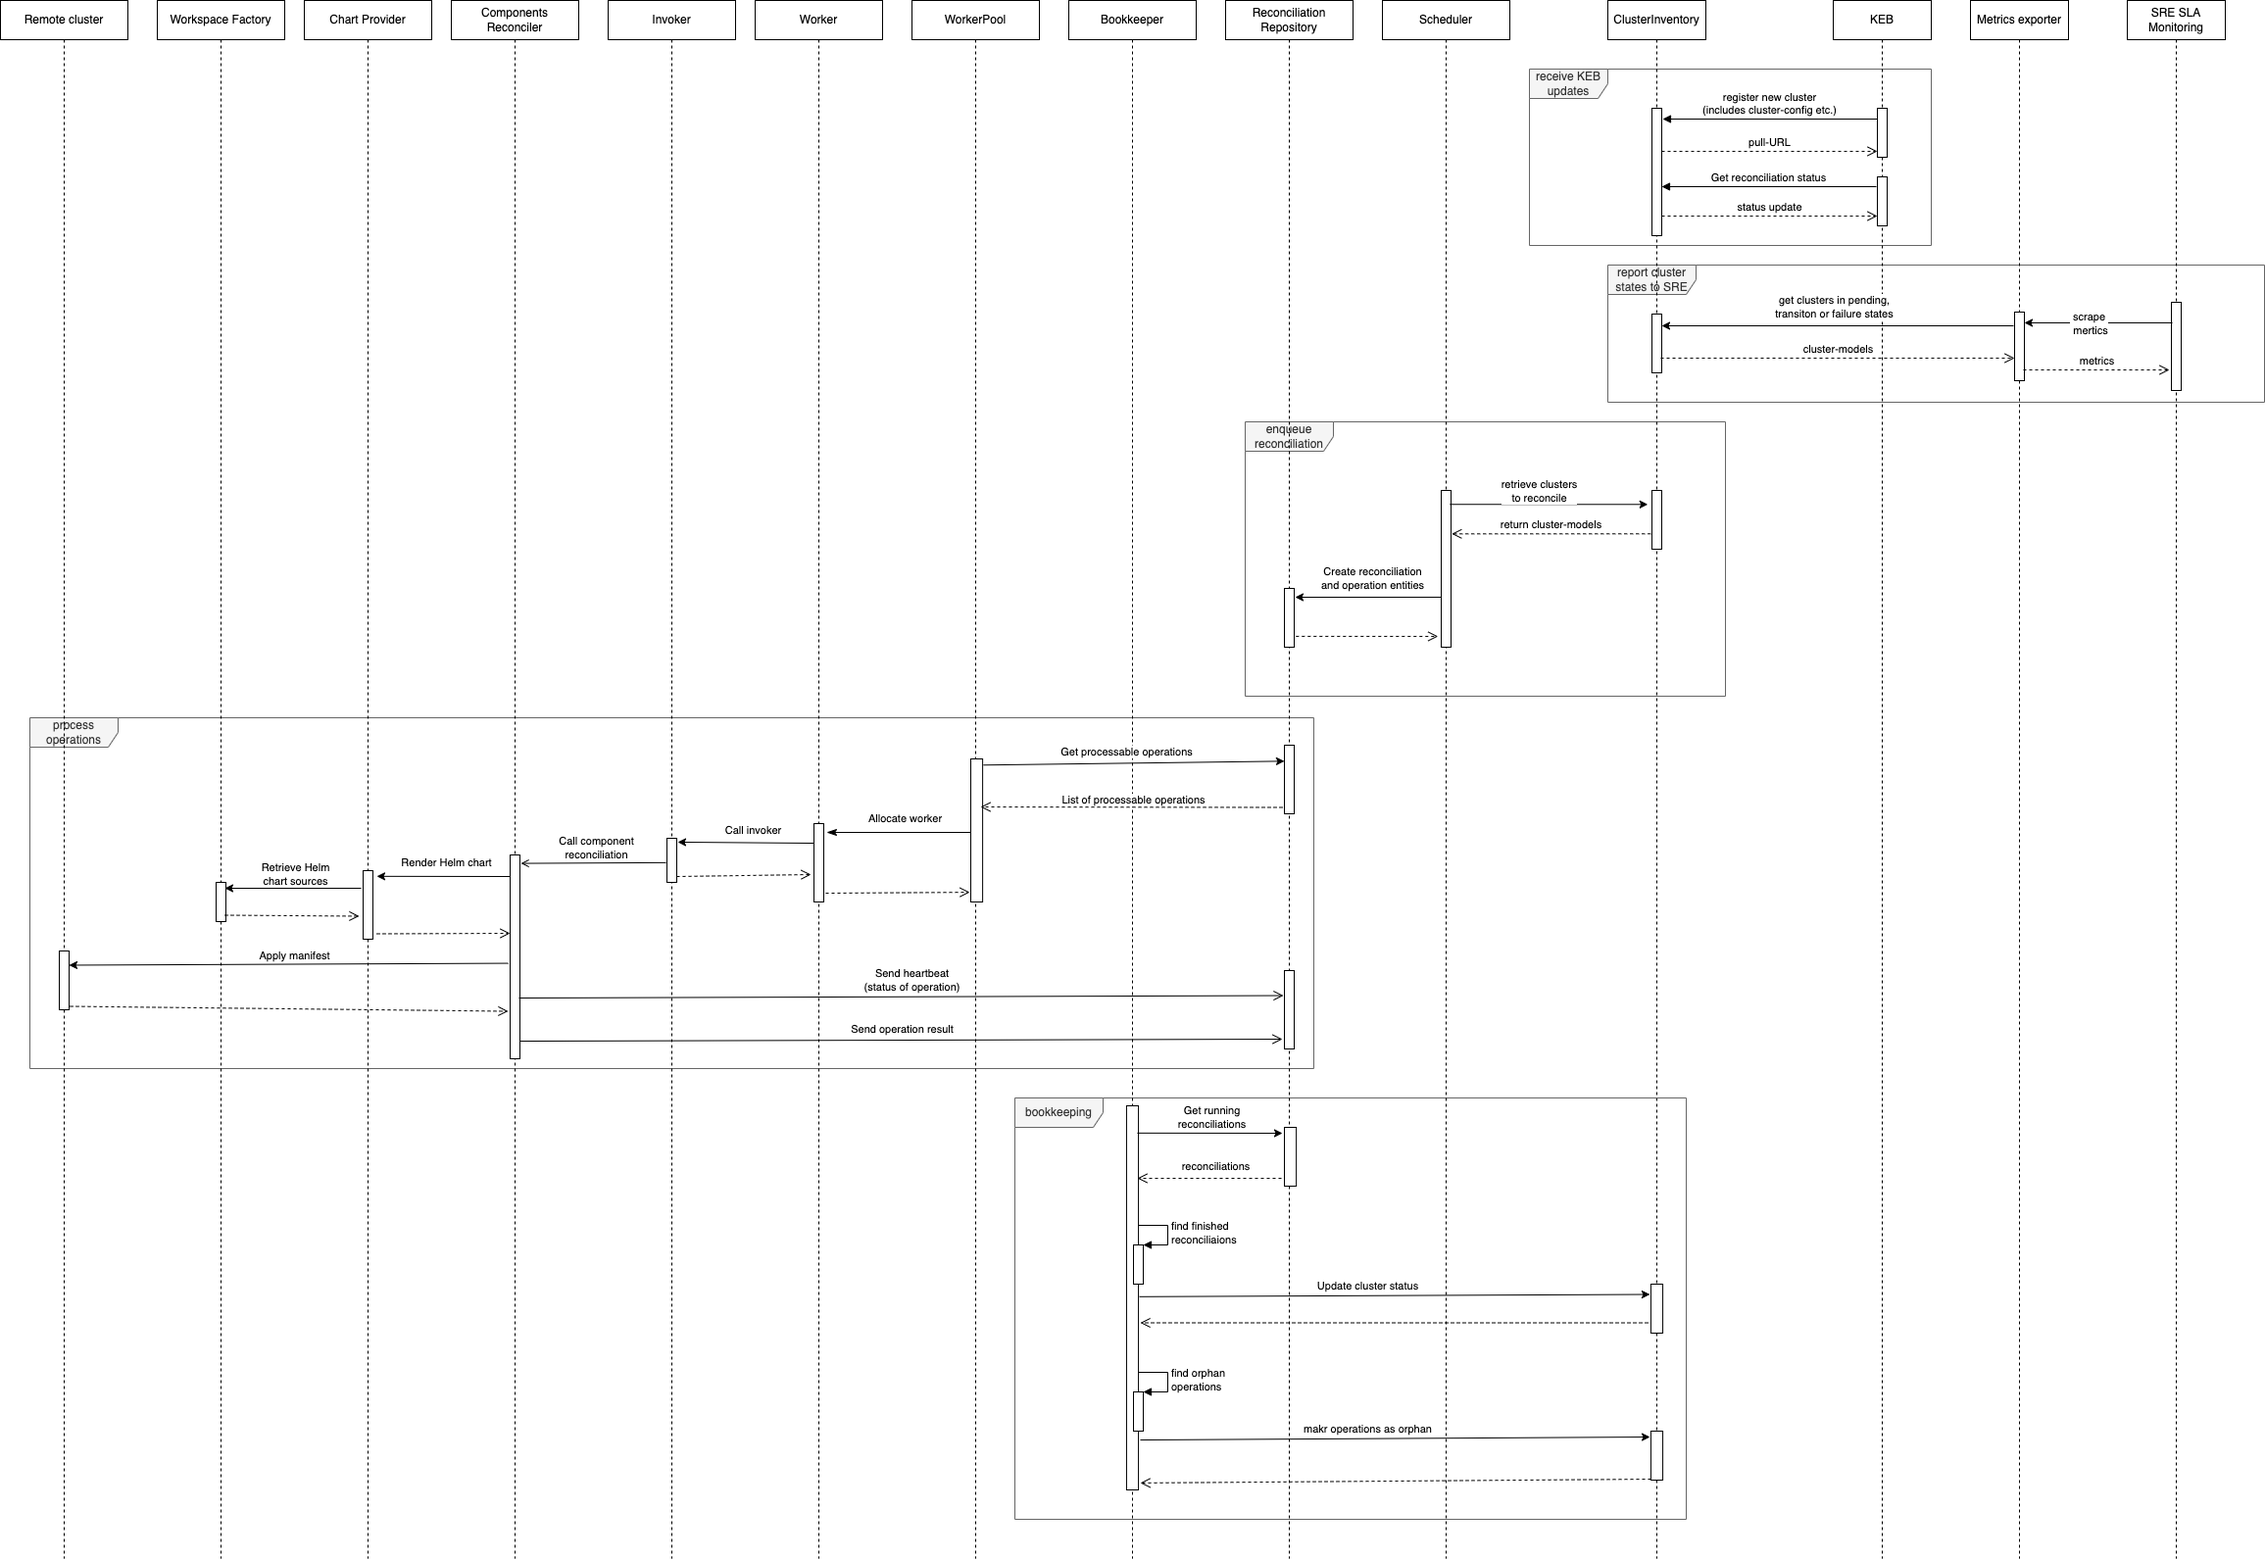
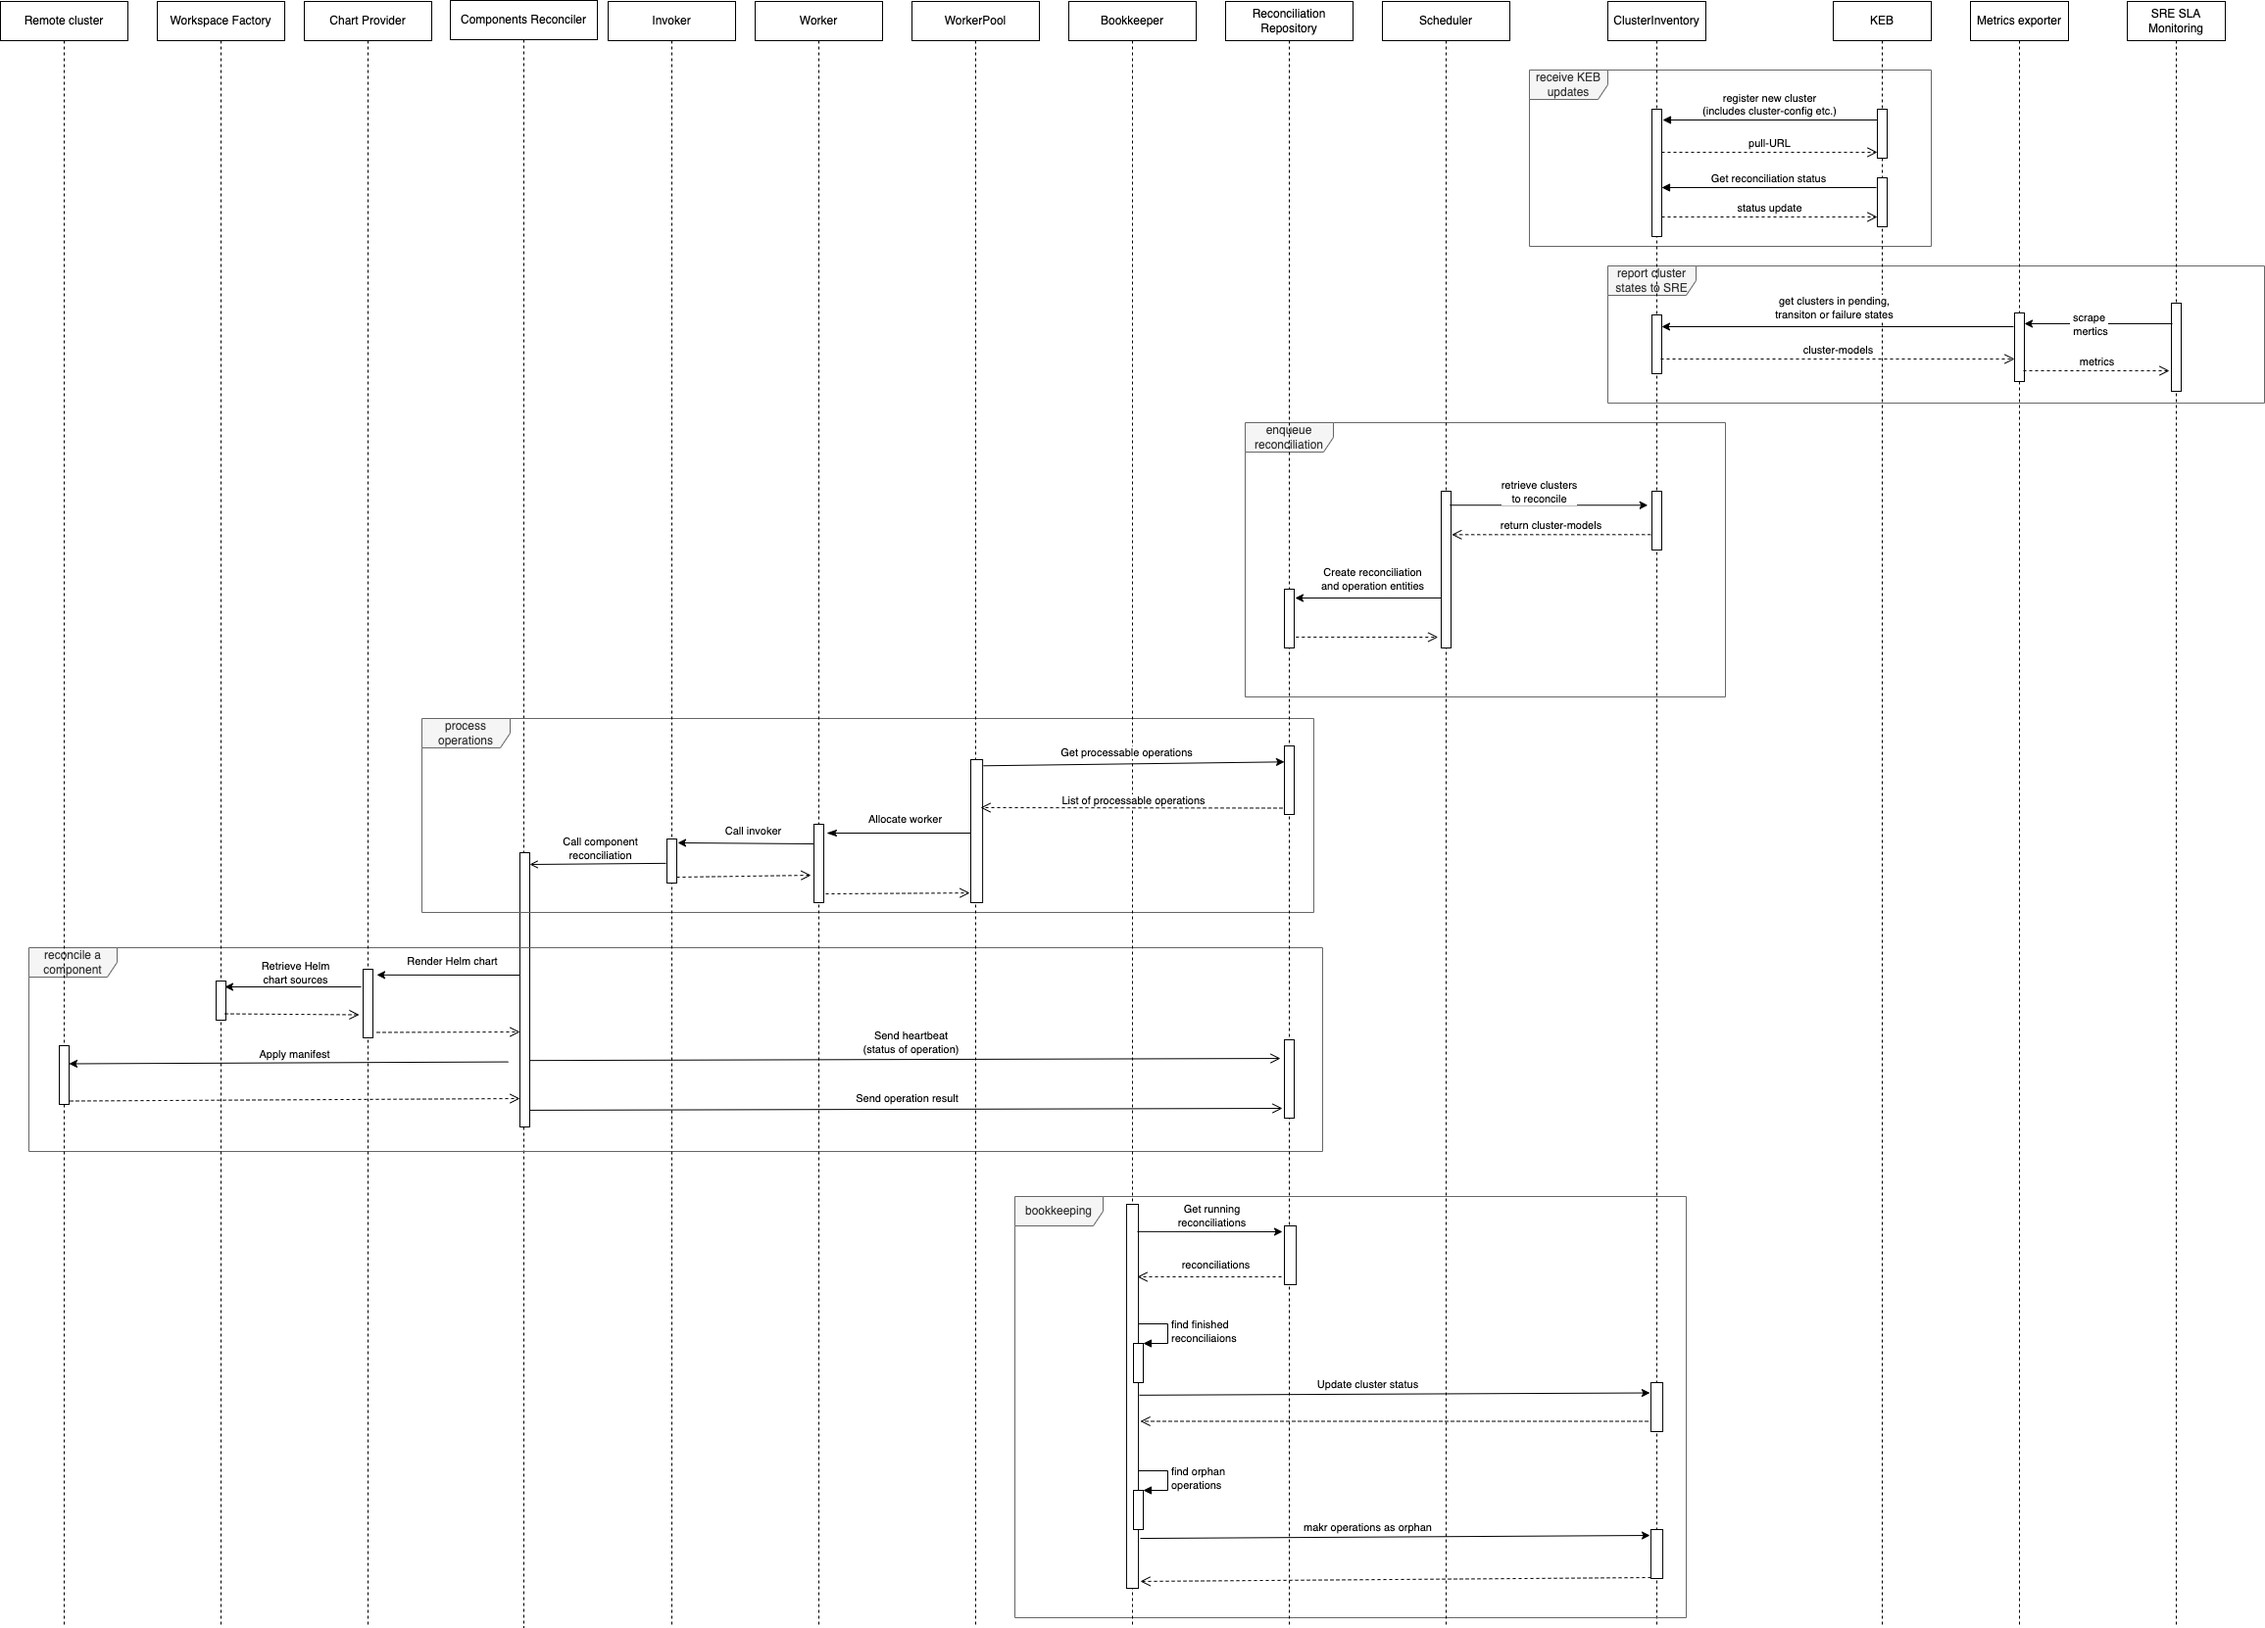
update docu

diff --git a/README.md b/README.md
@@ -223,7 +223,18 @@ Component reconcilers are taking the workload of a reconciliation and
 
 # 6. Runtime View
 
+The runtime view shows the most important regularly executed tasks the mothership reconciler performs and how the involved software elements are interacting.
+
 ![Runtime View](docs/assets/reconciler-runtime.png)
+
+|Scenario|Description|
+|---|---|
+|Receive KEB updates|The KEB service is sending cluster updates (e.g. create, update or delete) of SKR clusters to the mothership reconciler and pulls the status of the applied change.|
+|Report cluster states to SRE|The reconciler exposes a bunch of internal metrics (load, processing times etc.) and gets scraped by the SRE's managed monitoring system.|
+|Enqueue reconciliation|The scheduler regularly checks for clusters which require a reconciliation (e.g. because they were updated by KEB or their cluster status wasn't synchronized for a while) and adds them to the reconciliation queue.|
+|Process operations|Operations which are ready for processing are picked up by the Worker pool. It communicates them to the particular component reconciler.|
+|Reconcile a component|The component reconciler generates the Kubernetes manifest of the component (e.g. by rendering a Helm chart) and applies it on a Kubernetes cluster. It regularly checks the progress of the deployed resources (e.g. whether they reached the ready state) and reports via heartbeat messages the progress to the mothership reconciler.|
+|Bookkeeping|The bookkeeper checks whether a running reconciliation is in a final state (e.g. finished successfully or ended with an error state) and updates the cluster status accordingly. Beside that, it checks if any operation hasn't received a heartbeat message for a longer time (e.g. because the assigned component reconciler was restarted or gave up) and marks them as orphan operation. Orphan operations will be picked up by the worker pool again.|
 
 # 7. Deployment view
 
@@ -233,17 +244,29 @@ Component reconcilers are taking the workload of a reconciliation and
 
 ## 8.1 Logging
 
+## 8.2 Security
+
+## 8.3 Monitoring
+
 # 9. Architecture Decisions
 
-# 10. Quality Requirements
+## 9.1 Relational database as central storage
 
-## 10.1 Quality Tree
+## 9.2 Tasks triggered in intervals
 
-## 10.2 Quality Scenarios
+## 9.3 Pre-requisite components
 
-# 11. Risks and Technical Debt
+## 9.4 Software layers
 
-# 12. Glossary
+# 10. Risks and Technical Debt
+
+## 10.1 Database
+
+### 10.1.1 Custom ORM
+
+### 10.1.2 Database as performance bottleneck
+
+# 11. Glossary
 
 |Acronym|Full name|Description|
 |---|---|---|
